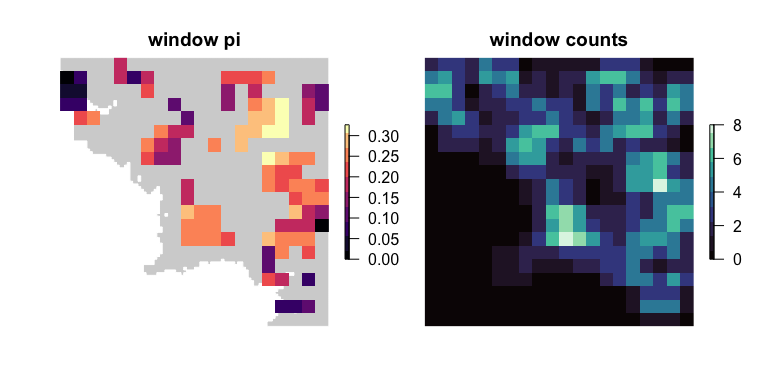
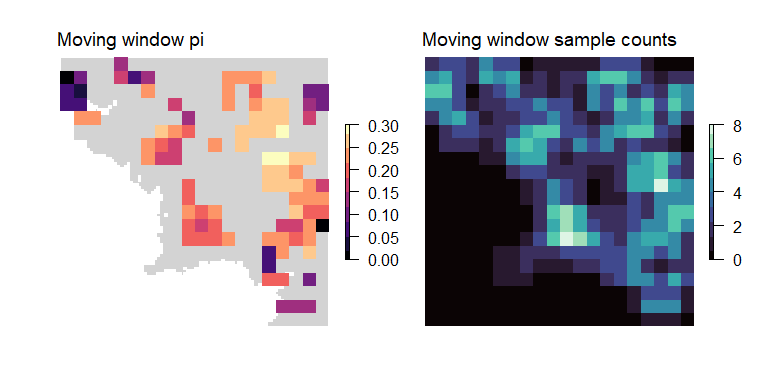
update README

diff --git a/README.md b/README.md
@@ -33,7 +33,6 @@ package vignette.
 
 ``` r
 library(wingen)
-
 # Load example data
 load_middle_earth_ex()
 ```
@@ -59,8 +58,8 @@ wgd <- window_gd(lotr_vcf,
 
 # Use plot_gd() to plot the genetic diversity layer and plot_count() to plot the sample counts layer
 par(mfrow = c(1,2), oma = rep(1,4), mar = rep(2,4))
-plot_gd(wgd, bkg = lotr_range, main = "window pi")
-plot_count(wgd, main = "window counts")
+plot_gd(wgd, bkg = lotr_range, main = "Moving window pi")
+plot_count(wgd, main = "Moving window sample counts")
 ```
 
 <img src="man/figures/README-window_gd-1.png" width="100%" />
@@ -74,8 +73,8 @@ kgd <- krig_gd(wgd[["pi"]], lotr_lyr)
 kgd_counts <- krig_gd(wgd[["sample_count"]], lotr_lyr)
 
 par(mfrow = c(1,2), oma = rep(1,4), mar = rep(2,4))
-plot_gd(kgd, main = "kriged pi")
-plot_count(kgd_counts, main = "kriged counts")
+plot_gd(kgd, main = "Kriged pi")
+plot_count(kgd_counts, main = "Kriged sample counts")
 ```
 
 <img src="man/figures/README-krig_gd-1.png" width="100%" />
@@ -95,8 +94,8 @@ mgd_counts <- mask_gd(mgd_lyr, kgd_counts, minval = 2)
 ``` r
 # Plot results
 par(mfrow = c(1,2), oma = rep(1,4), mar = rep(2,4))
-plot_gd(mgd_lyr, main = "masked pi (spp range)")
-plot_gd(mgd_counts, bkg = lotr_range, main = "masked pi (counts + spp range)")
+plot_gd(mgd_lyr, main = "Masked pi (range)")
+plot_gd(mgd_counts, bkg = lotr_range, main = "Masked pi (sample counts + range)")
 ```
 
 <img src="man/figures/README-result-1.png" width="100%" />
